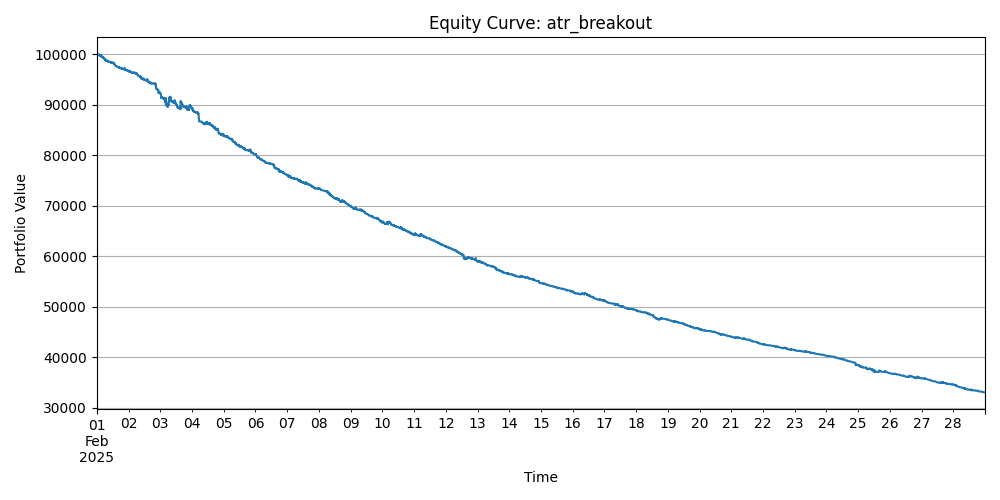
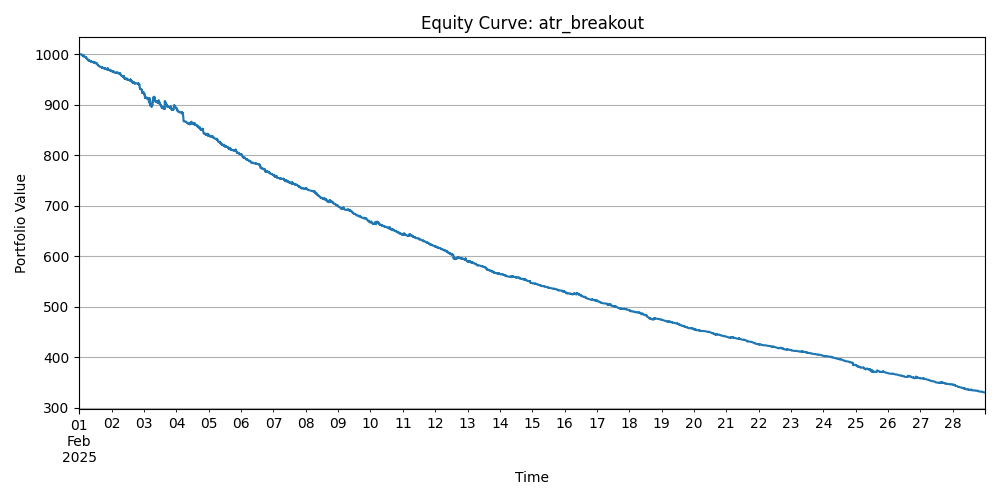
final

diff --git a/project1/strategies/sma_cross.py b/project1/strategies/sma_cross.py
@@ -54,7 +54,7 @@ class SMACrossoverStrategy(StrategyBase):
         self.signals = (entries, exits)
         return entries.astype(int) - exits.astype(int)
 
-    def run_backtest(self) -> pd.DataFrame:
+    def run_backtest(self):
         """
         Виконує бектест стратегії.
 
@@ -62,18 +62,23 @@ class SMACrossoverStrategy(StrategyBase):
         """
         if self.signals is None:
             self.generate_signals()
-
+        # ЯКЩО ПОТРІБНО ЗРОБИТИ СТАТИЧНИЙ init_cash просто розкоментуйте рядки
+        # total_cash = 100  # Загальна сума
+        # symbols = self.filtered_close.columns  # Всі активи
+        # cash_per_asset = total_cash / len(symbols)  # Розподіл на кожен акт
         entries, exits = self.signals
 
         self.portfolio = vbt.Portfolio.from_signals(
             close=self.filtered_close,
             entries=entries,
             exits=exits,
-            init_cash=1000,
+            # init_cash=pd.Series(cash_per_asset, index=symbols),
+            init_cash=10,  # По 10 одиниць для кожного активу, сумарний 1000
             fees=0.001,
-            slippage=0.001,
+            slippage=0.0011,
             freq="1min"
         )
+
         return self.portfolio.value()
 
     def get_metrics(self) -> dict:

diff --git a/project1/strategies/vwap_reversion.py b/project1/strategies/vwap_reversion.py
@@ -55,7 +55,7 @@ class VWAPReversionStrategy(StrategyBase):
         self.filtered_close = close
         return entries.astype(int) - exits.astype(int)
 
-    def run_backtest(self) -> pd.DataFrame:
+    def run_backtest(self):
         """
         Виконує бектест стратегії.
 
@@ -63,16 +63,20 @@ class VWAPReversionStrategy(StrategyBase):
         """
         if self.signals is None:
             self.generate_signals()
-
+        # ЯКЩО ПОТРІБНО ЗРОБИТИ СТАТИЧНИЙ init_cash просто розкоментуйте рядки
+        # total_cash = 100  # Загальна сума
+        # symbols = self.filtered_close.columns  # Всі активи
+        # cash_per_asset = total_cash / len(symbols)  # Розподіл на кожен акт
         entries, exits = self.signals
 
         self.portfolio = vbt.Portfolio.from_signals(
             close=self.filtered_close,
             entries=entries,
             exits=exits,
-            init_cash=1000,
+            # init_cash=pd.Series(cash_per_asset, index=symbols),
+            init_cash=10,  # По 10 одиниць для кожного активу, сумарний 1000
             fees=0.001,
-            slippage=0.001,
+            slippage=0.0011,
             freq="1min"
         )
 

diff --git a/project1/strategies/atr_based.py b/project1/strategies/atr_based.py
@@ -65,18 +65,23 @@ class ATRBreakoutStrategy(StrategyBase):
         """
         if self.signals is None:
             self.generate_signals()
-
+        # ЯКЩО ПОТРІБНО ЗРОБИТИ СТАТИЧНИЙ init_cash просто розкоментуйте рядки
+        # total_cash = 100  # Загальна сума
+        # symbols = self.filtered_close.columns  # Всі активи
+        # cash_per_asset = total_cash / len(symbols)  # Розподіл на кожен акт
         entries, exits = self.signals
 
         self.portfolio = vbt.Portfolio.from_signals(
             close=self.filtered_close,
             entries=entries,
             exits=exits,
-            init_cash=1000,
+            # init_cash=pd.Series(cash_per_asset, index=symbols),
+            init_cash=10,# По 10 одиниць для кожного активу, сумарний 1000
             fees=0.001,
             slippage=0.0011,
             freq="1min"
         )
+
         return self.portfolio.value()
 
     def get_metrics(self) -> dict:
